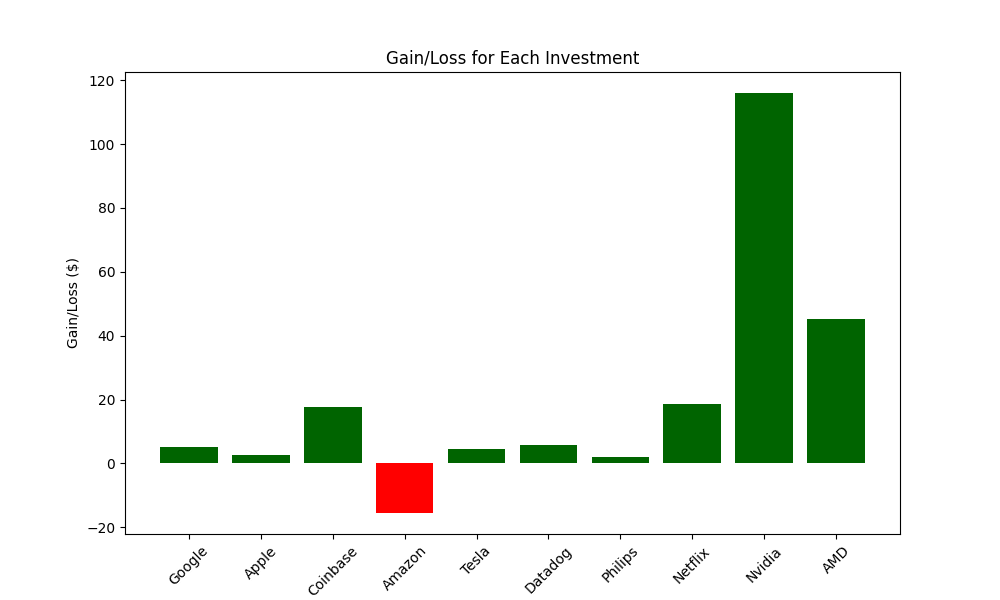
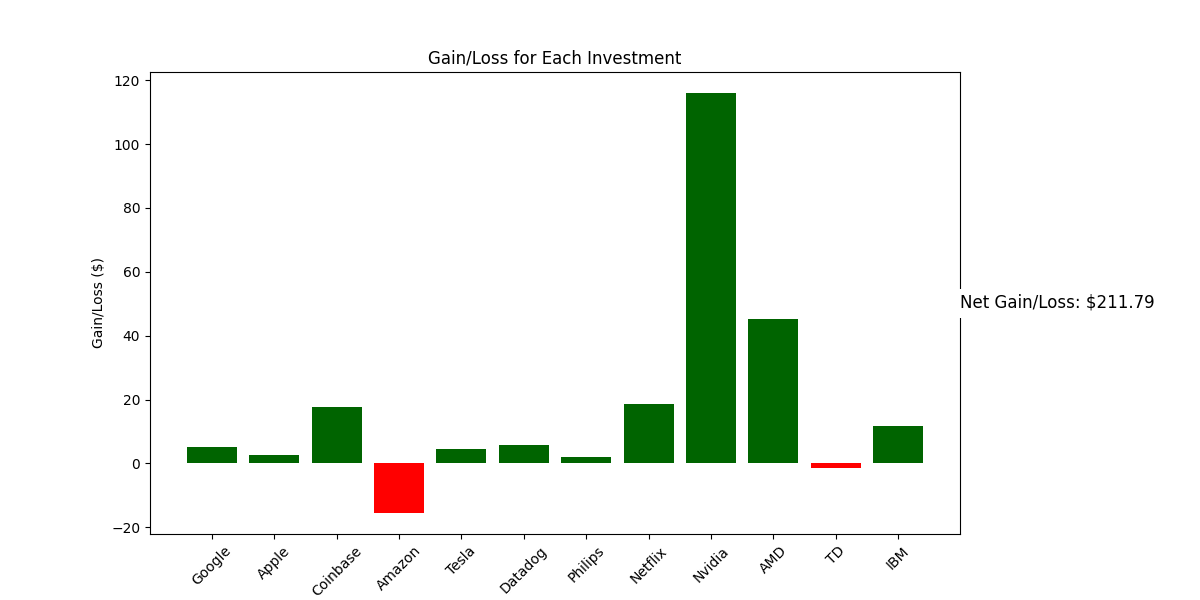
net gain/loss

diff --git a/graph/graph.py b/graph/graph.py
@@ -7,13 +7,21 @@ def plot_bar_chart(investments, output_path):
     gain_loss = [inv['gain_loss'] for inv in investments]
     
     colors = ['red' if gl < 0 else 'darkgreen' for gl in gain_loss]
+    
+    net_gain_loss = sum(gain_loss)
 
-    plt.figure(figsize=(10, 6))
+    plt.figure(figsize=(12, 6))  
     plt.bar(labels, gain_loss, color=colors)
     plt.xlabel('Company')
     plt.ylabel('Gain/Loss ($)')
     plt.title('Gain/Loss for Each Investment')
     plt.xticks(rotation=45)
+    
+    plt.subplots_adjust(right=0.8)
+    
+    plt.annotate(f'Net Gain/Loss: ${net_gain_loss:.2f}', xy=(1, 0.5), xycoords='axes fraction',
+                 fontsize=12, color='black', ha='left', va='center', bbox=dict(facecolor='white', edgecolor='none'))
+
     plt.savefig(output_path)  
 
 def encode_image_to_base64(image_path):
